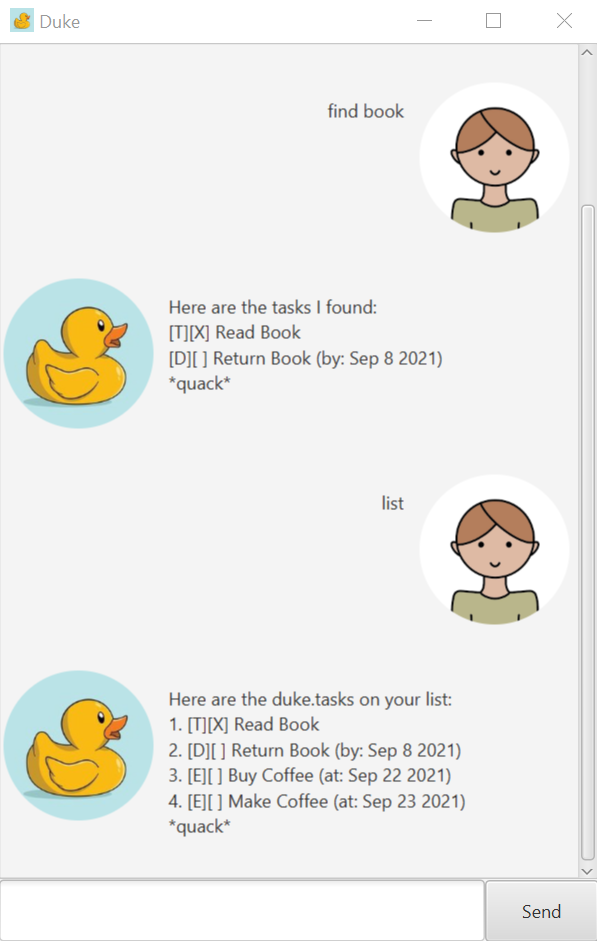
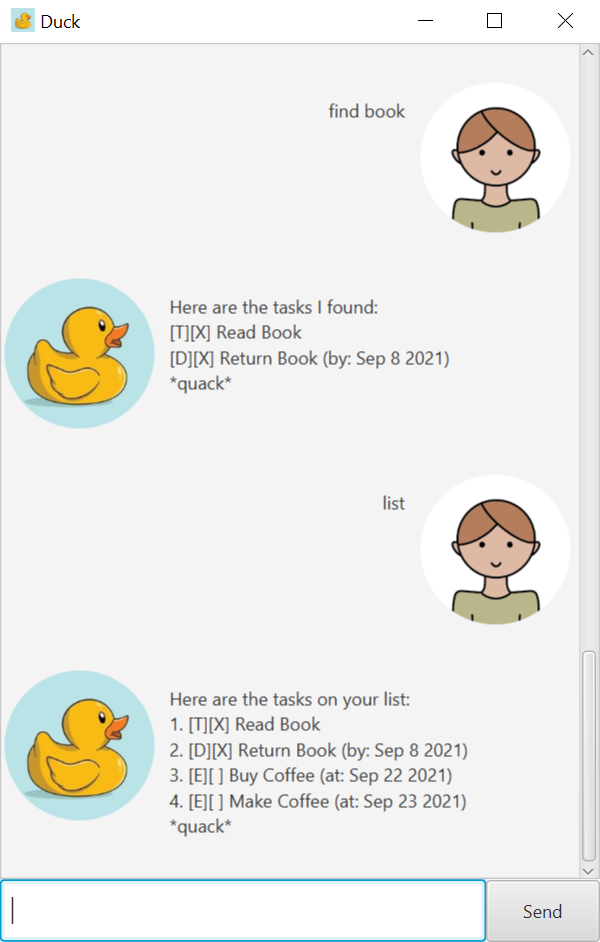
Add User Guide and Ui.png
Also final changes to GUI messages

diff --git a/src/main/java/duke/Ui.java b/src/main/java/duke/Ui.java
@@ -15,15 +15,15 @@ public class Ui {
     private static final String BYE = "Bye. Hope to see you again soon!\n"
             + "*quack*\n";
     private static final String HELP = "Here's a list of commands that Duck can help you with!\n"
-            + "1. todo TASK: Add a Todo task to your list\n"
-            + "2. deadline TASK /by YYYY-MM-DD: Add a Deadline to your list with a specified date\n"
-            + "3. event TASK /at YYYY-MM-DD: Add a Event to your list with a specified date\n"
-            + "4. list: Displays your task list\n"
-            + "5. done TASK_NO: Mark a task on your list as completed.\n"
-            + "6. delete TASK_NO: Delete a task from your list\n"
-            + "7. find SEARCH_TERMS: Search for tasks that contain words from your search term\n"
-            + "8. help: View list of commands again\n"
-            + "Have fun using Duck!";
+            + "1. todo TASK: Add a Todo task\n"
+            + "2. deadline TASK /by YYYY-MM-DD: Add a Deadline task with a specified date\n"
+            + "3. event TASK /at YYYY-MM-DD: Add a Event task with a specified date\n"
+            + "4. list: Display your task list\n"
+            + "5. done TASK_NO: Mark a task as completed\n"
+            + "6. delete TASK_NO: Delete a task\n"
+            + "7. find SEARCH_TERMS: Search for tasks\n"
+            + "8. help: View this list of commands again\n"
+            + "*quack*\n";
 
     /**
      * Display greeting to users upon running.
@@ -76,7 +76,7 @@ public class Ui {
      * @return Message that task was deleted.
      */
     public String showDeleted(Task deletedTask, int numTasks) {
-        return String.format("Noted. I've removed this task: %s\nNow you have %d tasks in your list.\n",
+        return String.format("Noted. I've removed this task:\n%s\nNow you have %d tasks in your list.\n",
                 deletedTask.toString(), numTasks);
     }
 
@@ -107,12 +107,12 @@ public class Ui {
      */
     public String showList(TaskList tasks) {
         if (tasks.taskList.isEmpty()) {
-            return "There are no duke.tasks on your list. *quack*";
+            return "There are no tasks on your list. *quack*";
         } else if (tasks.getLength() == 1) {
             return String.format("There is one task on your list:\n1. %s\n*quack*",
                     tasks.getTask(0).toString());
         } else {
-            String taskStrings = "Here are the duke.tasks on your list:\n";
+            String taskStrings = "Here are the tasks on your list:\n";
             int i = 1;
             for (Task task : tasks.taskList) {
                 taskStrings += String.format("%d. %s\n", i, task.toString());

diff --git a/src/main/java/duke/Main.java b/src/main/java/duke/Main.java
@@ -23,7 +23,7 @@ public class Main extends Application {
             AnchorPane ap = fxmlLoader.load();
             Scene scene = new Scene(ap);
             stage.setScene(scene);
-            stage.setTitle("Duke");
+            stage.setTitle("Duck");
             fxmlLoader.<MainWindow>getController().setDuke(duke);
             stage.getIcons().add(new Image(this.getClass().getResourceAsStream("/images/duck.jpg")));
             stage.show();

diff --git a/docs/README.md b/docs/README.md
@@ -1,29 +1,172 @@
-# User Guide
+# Duck User Guide
+Duck is a cute and easy way to keep track of your tasks.
+
+![Duck GUI](Ui.png)
 
 ## Features 
-
-### Feature-ABC
-
-Description of the feature.
-
-### Feature-XYZ
-
-Description of the feature.
+* [Add Todo](#add-todo-todo)
+* [Add Deadline](#add-deadline-deadline)
+* [Add Event](#add-event-event)
+* [List Tasks](#list-tasks-list)
+* [Mark Task as Done](#mark-tasks-as-done-done)
+* [Delete Task](#delete-tasks-delete)
+* [Find Tasks](#find-tasks-find)
+* [Close Duck](#close-duck-bye)
+* [Get Help](#get-help-help)
 
 ## Usage
 
-### `Keyword` - Describe action
+### Add Todo: `todo`
+Add a new Todo task to your task list.
 
-Describe the action and its outcome.
+**Usage Format:** `todo TASK_NAME`
 
-Example of usage: 
+**Example**
 
-`keyword (optional arguments)`
+User Input: `todo Read Book`
+
+Expected outcome:
+```
+Got it. I've added this task:
+[T][ ] Read Book
+Now you have 1 task in your list.
+```
+
+### Add Deadline: `deadline`
+
+Add a new Deadline task with a due date to your task list.
+
+**Usage Format:** `deadline TASK_NAME /by YYYY-MM-DD`
+
+**Example**
+
+User Input: `deadline Return Book /by 2021-09-08`
+
+Expected outcome:
+```
+Got it. I've added this task:
+[D][ ] Return Book (by: Sep 8 2021)
+Now you have 2 tasks in your list.
+```
+
+### Add Event: `event`
+
+Add a new Event task with a date to your task list.
+
+**Usage Format:** `event TASK_NAME /at YYYY-MM-DD`
+
+**Example**
+
+User Input: `deadline Buy Coffee /at 2021-09-22`
+
+Expected outcome:
+```
+Got it. I've added this task:
+[E][ ] Buy Coffee (at: Sep 22 2021)
+Now you have 3 tasks in your list.
+```
+
+### List Tasks: `list`
+
+List out the tasks on your task list. 
+
+**Usage Format:** `list`
+
+**Example**
+
+```
+Here are the tasks on your list:
+1. [T][ ] Read Book
+2. [D][ ] Return Book (by: Sep 8 2021)
+3. [E][ ] Buy Coffee (at: Sep 22 2021)
+*quack*
+```
+
+### Mark Task as Done: `done`
+
+Cross a task off your task list by marking it as completed.
+
+**Usage Format:** `done TASK_NUMBER`
+
+**Example**
+
+User Input: `done 1`
 
 Expected outcome:
 
-Description of the outcome.
+```
+Nice! I've marked this task as done:
+[T][X] Read Book
+```
+
+### Delete Task: `delete`
+
+Tidy up your task list by deleting tasks.
+
+**Usage Format:** `delete TASK_NUMBER`
+
+**Example**
+
+User Input: `delete 3`
+
+Expected outcome:
 
 ```
-expected output
+Noted. I've removed this task:
+[E][ ] Buy Coffee (at: Sep 22 2021)
+Now you have 2 tasks in your list.
 ```
+
+### Find Tasks: `find`
+
+Find tasks easily by searching for them.
+
+**Usage Format:** `find SEARCH_TERMS`
+
+**Example**
+
+User Input: `find book`
+
+Expected outcome:
+
+```
+Here are the tasks I found:
+[T][ ] Read Book
+[D][ ] Return Book (by: Sep 8 2021)
+*quack*
+```
+
+### Close Duck: `bye`
+
+Close the Duck window directly or by using the `bye` command.
+
+**Usage Format:** `bye`
+
+**Example**
+```
+Bye. Hope to see you again soon!
+*quack*
+```
+
+### Get Help: `help`
+
+Find commands easily by asking Duck for help!
+
+**Usage Format:** `help`
+
+**Example**
+
+```
+Here's a list of commands that Duck can help you with!
+1. todo TASK: Add a Todo task
+2. deadline TASK /by YYYY-MM-DD: Add a Deadline task with a specified date
+3. event TASK /at YYYY-MM-DD: Add a Event task with a specified date
+4. list: Display your task list
+5. done TASK_NO: Mark a task as completed
+6. delete TASK_NO: Delete a task
+7. find SEARCH_TERMS: Search for tasks
+8. help: View this list of commands again
+*quack*
+```
+
+### Have fun using Duck!
